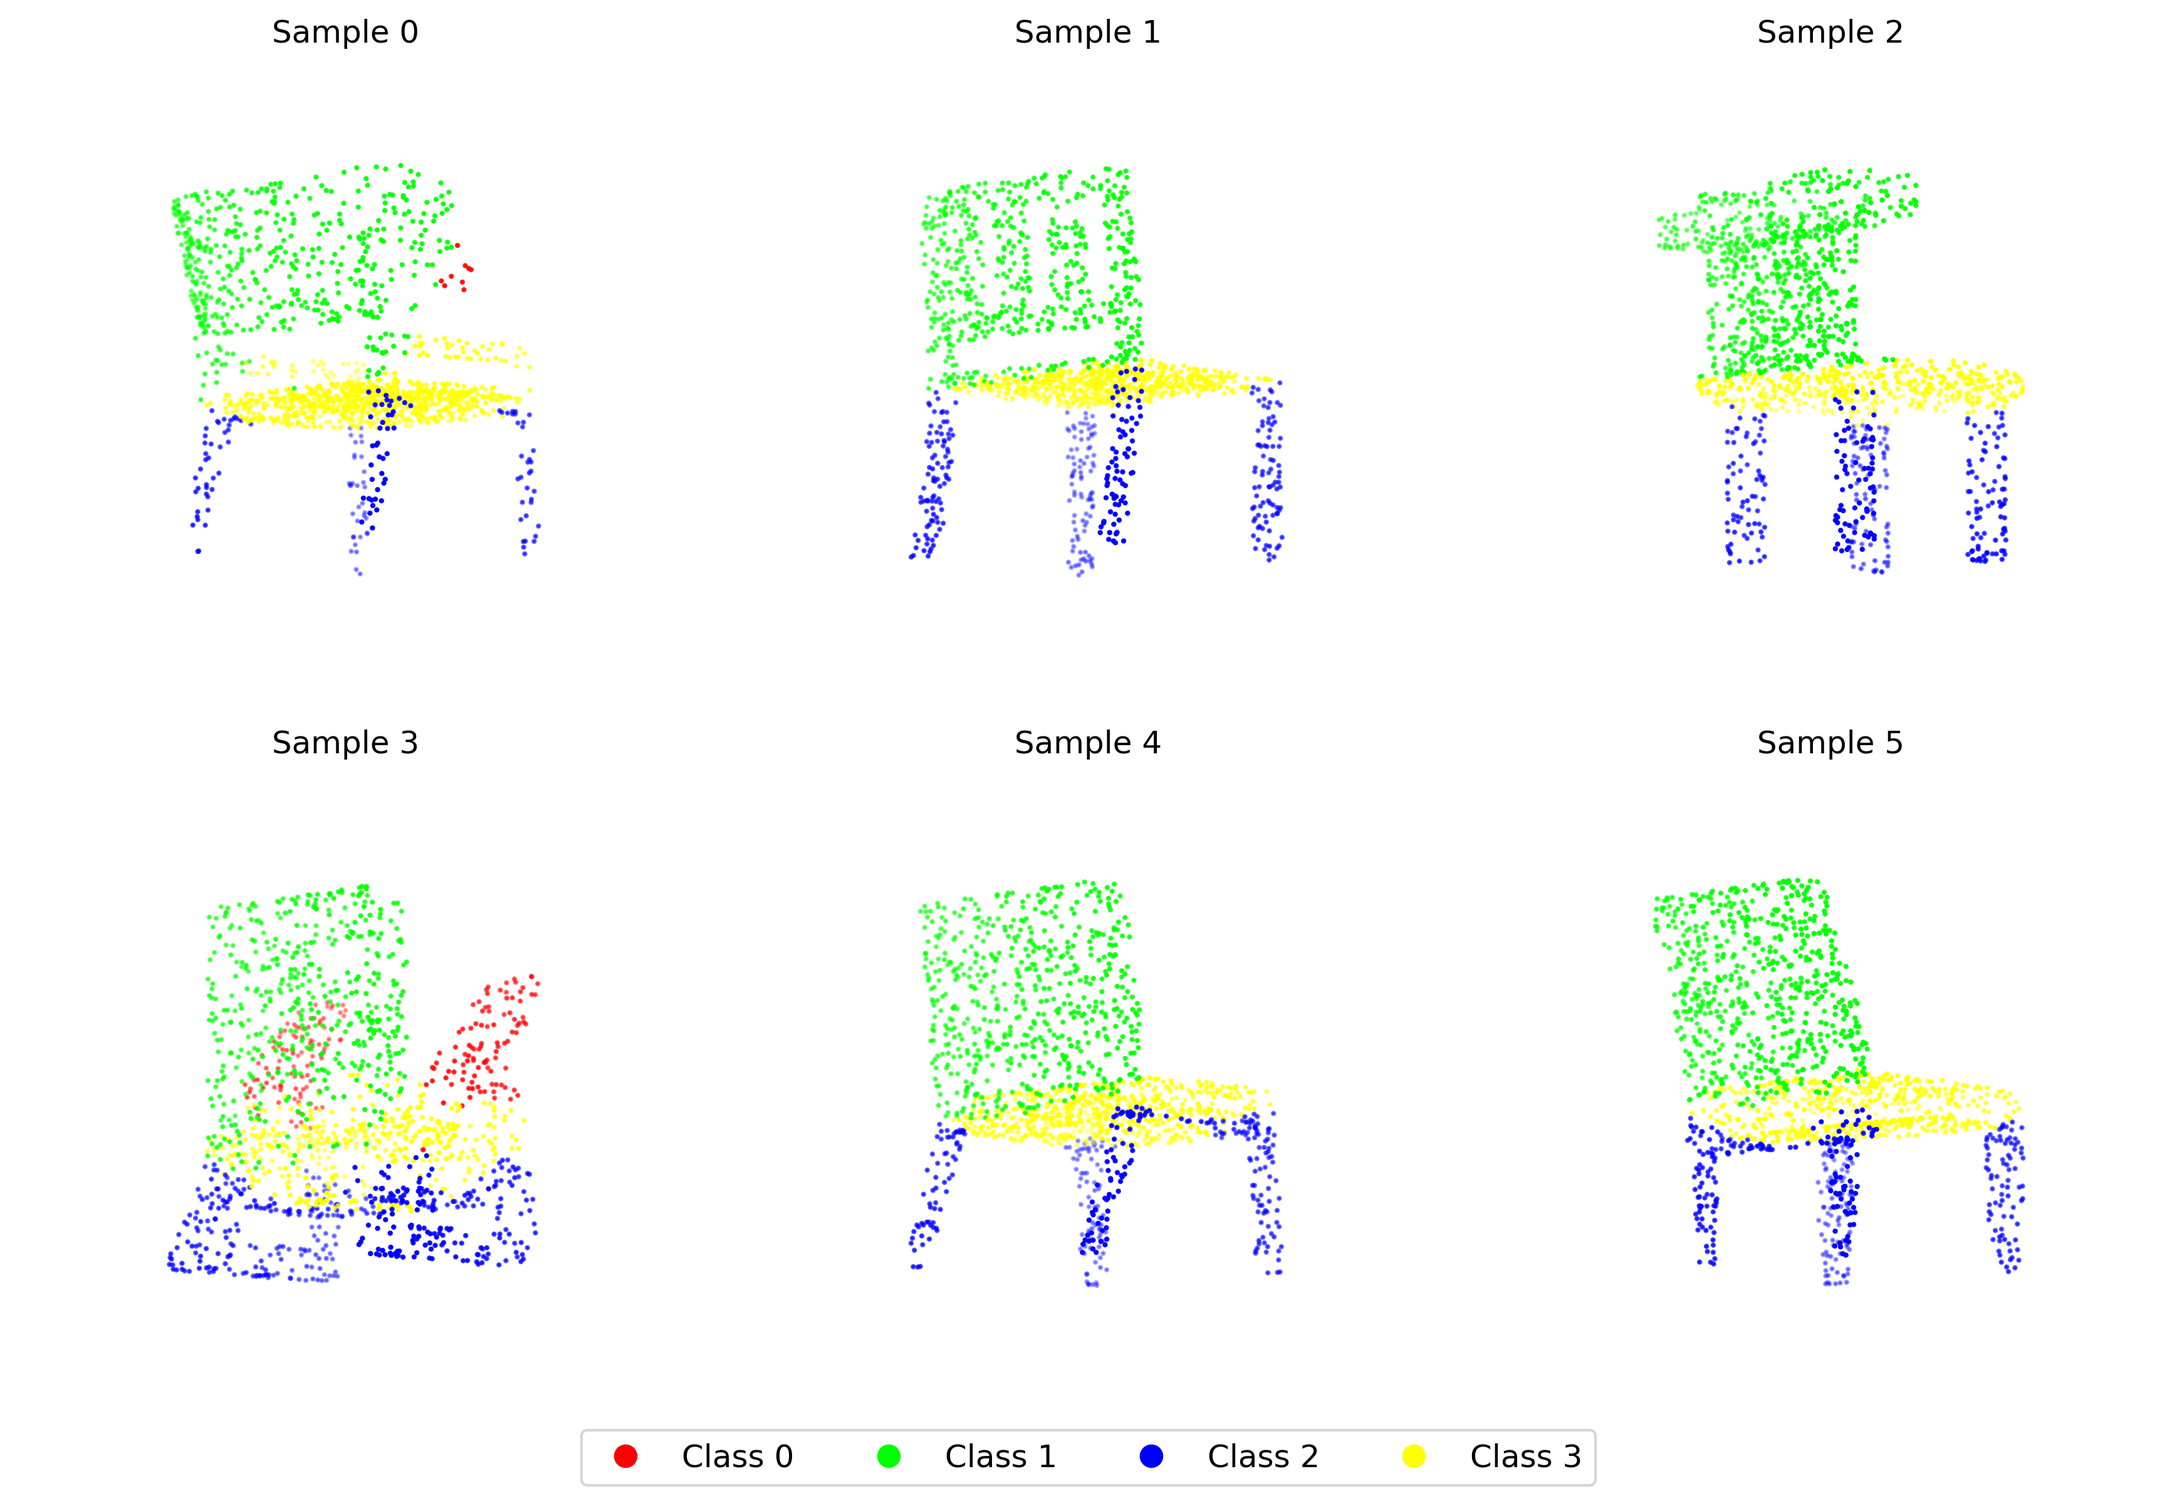
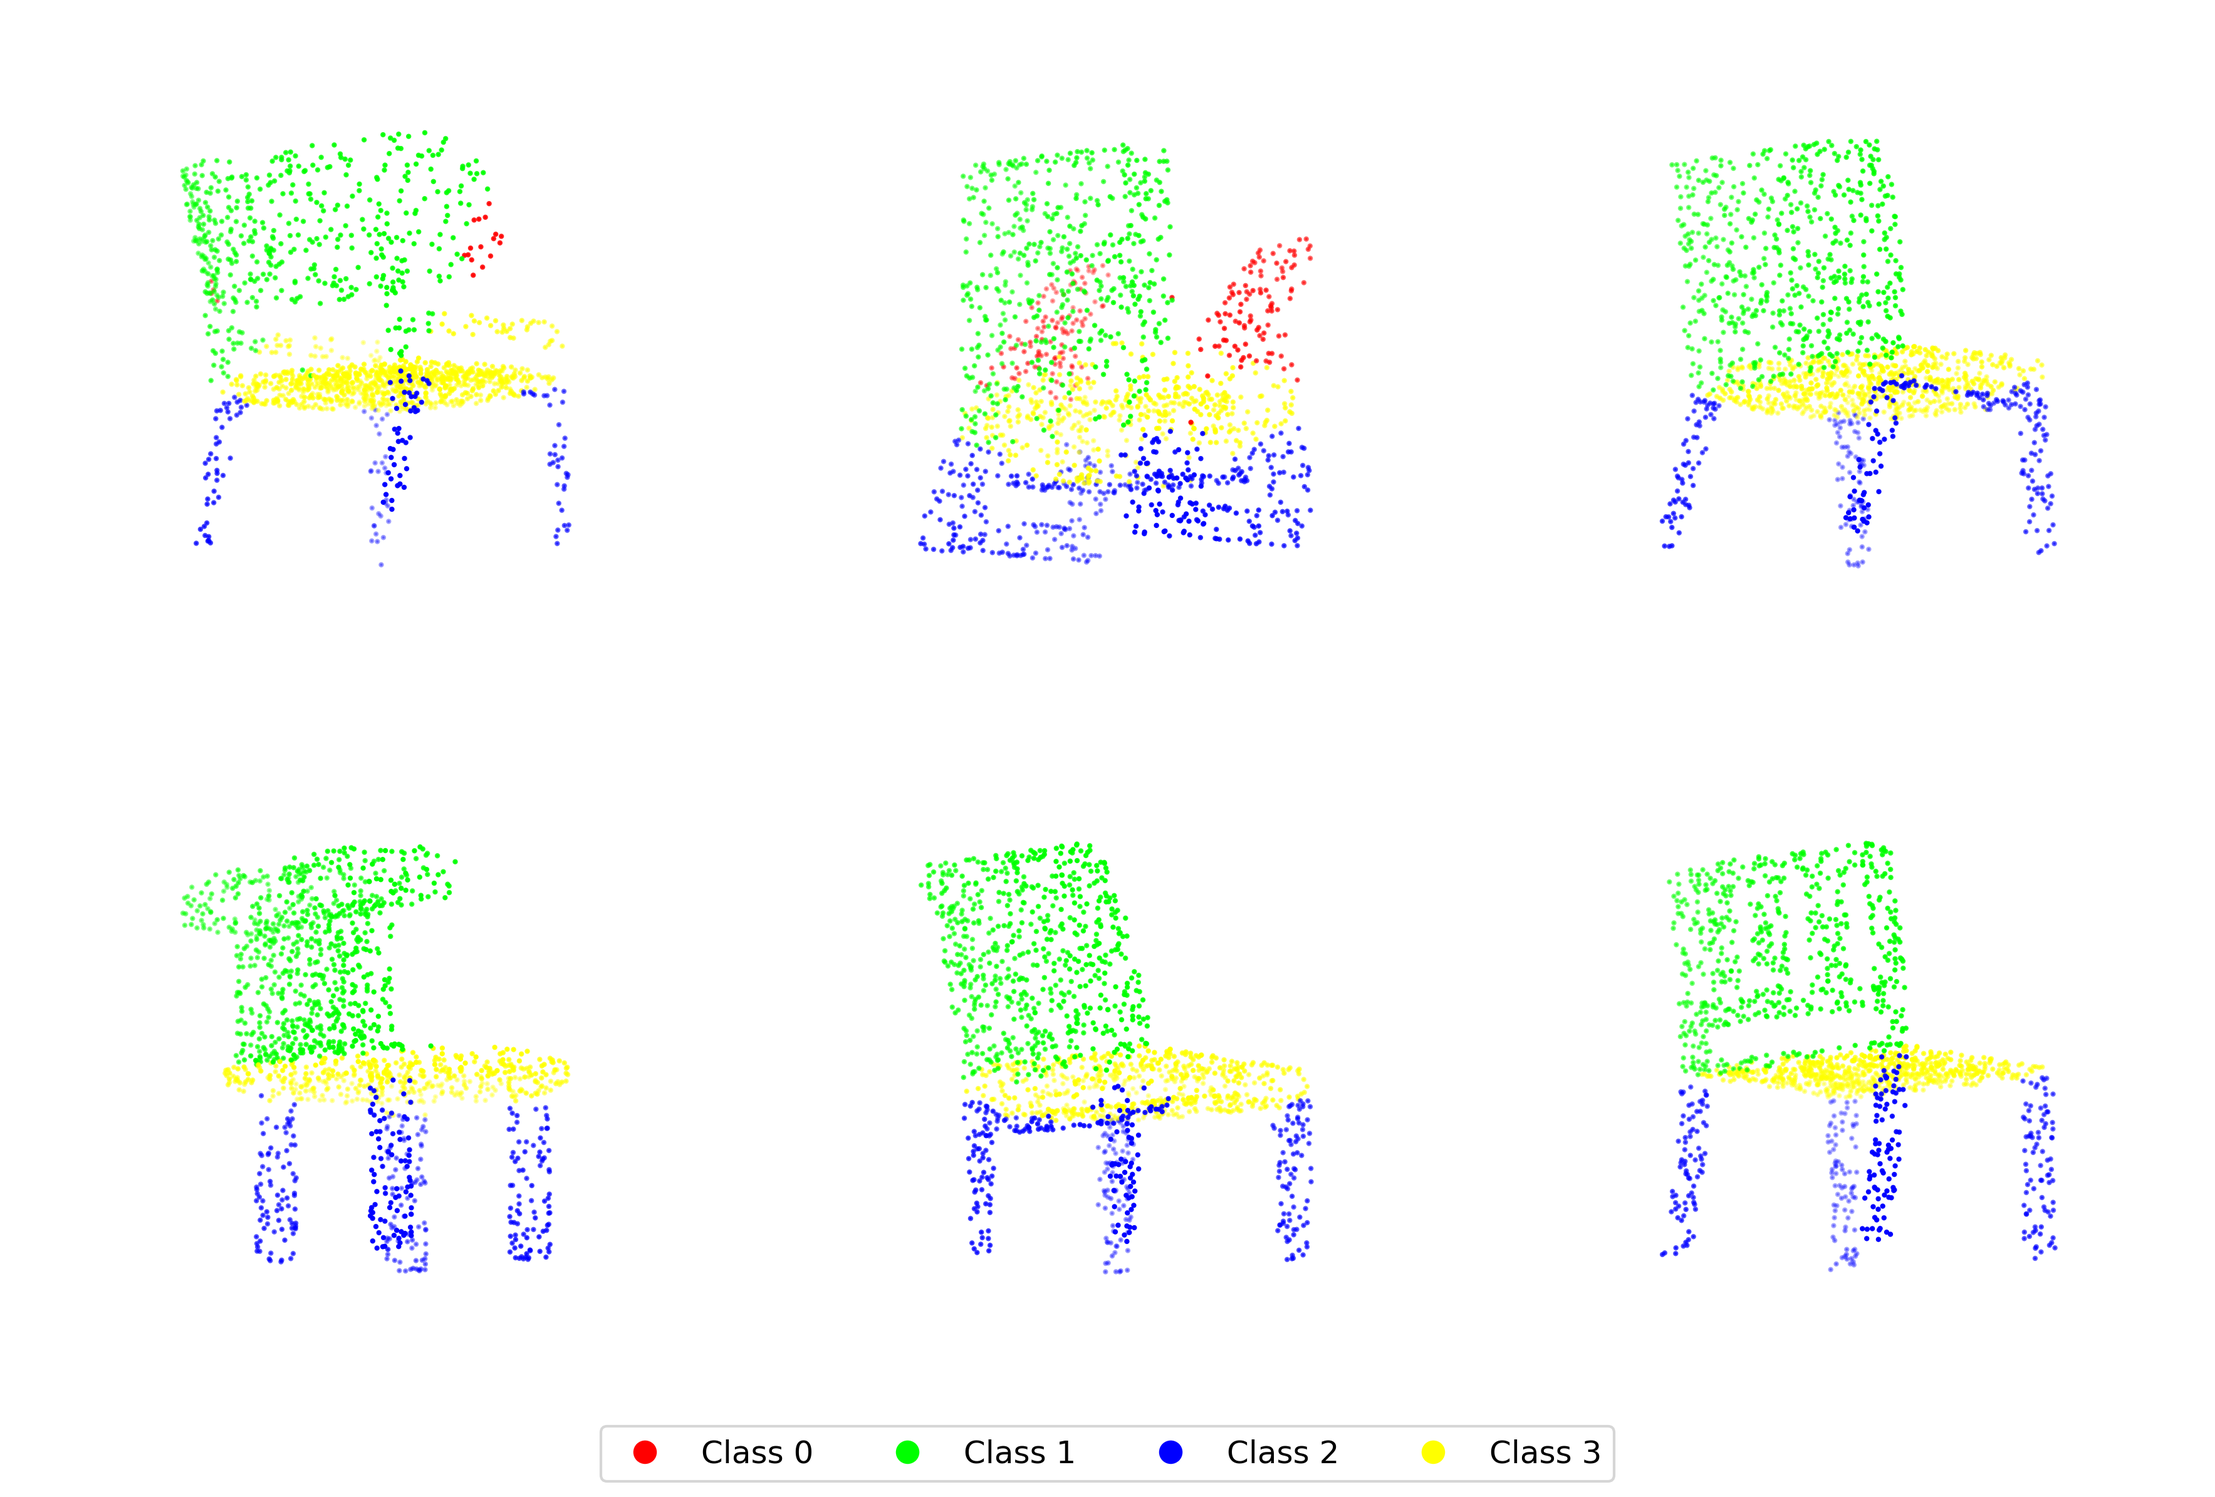
Add Modelnet Classification of pointnet

diff --git a/3D_segmentation/PointNet/test.py b/3D_segmentation/PointNet/test.py
@@ -1,15 +1,11 @@
-import os
 import torch
-import open3d as o3d
-import numpy as np
-import matplotlib.pyplot as plt
-from matplotlib.lines import Line2D
 import argparse
 
 from dataset import *
 from model import *
 from utils import *
 from vis_utils import *
+
 
 def test_model(args):
     device = args.device
@@ -25,45 +21,25 @@ def test_model(args):
     model.eval()
 
     _, _, test_dataloader, class_dict = get_dataset(args)
-    test_size = len(test_dataloader.dataset)
     
     if dataset_type == "chair":
-        n_cols = 3
-        n_rows = int(np.ceil(test_size / n_cols))
-        fig = plt.figure(figsize=(4 * n_cols, 4 * n_rows))
-        
-        for idx, pcloud in enumerate(test_dataloader):
+        for pcloud in test_dataloader:
             with torch.no_grad():
-                pcloud = pcloud.to(device).float()
-                output = torch.squeeze(model(pcloud))
-                predict = torch.softmax(output, dim=0).cpu()
-                predict_cla = torch.argmax(predict, dim=0).numpy()
+                output = torch.squeeze(model(pcloud.to(device).float()))
+                predict = torch.softmax(output, dim=1).cpu()
+                predict_class = torch.argmax(predict, dim=1).numpy()
                 
-                points_np = torch.squeeze(pcloud).T.cpu().numpy()
-                points_np = rotate_points_around_y(points_np, 50)
-                colors = np.array([color_map[label] for label in predict_cla])
-                
-                ax = fig.add_subplot(n_rows, n_cols, idx + 1, projection='3d')
-                ax.scatter(points_np[:, 0], points_np[:, 1], points_np[:, 2], c=colors, s=1)
-                ax.view_init(elev=80, azim=-90)
-                ax.set_title(f'Sample {idx}')
-                plt.axis('off')
-
-        legend_elements = []
-        for class_id, color in color_map.items():
-            legend_elements.append(Line2D([0], [0], marker='o', color='w',
-                            label=f'Class {class_id}',
-                            markerfacecolor=rgb_to_hex(color),
-                            markersize=10))
-
-        fig.legend(handles=legend_elements, loc='lower center', ncol=len(color_map), fontsize='large')
-        plt.tight_layout()
-        plt.subplots_adjust(bottom=0.05)
-        plt.savefig('img/{}_{}.png'.format(model_name, dataset_type), dpi=300, bbox_inches='tight')
-        plt.show()
+            visualize_pcloud(args, pcloud, color_map, predict_class)
         
     elif dataset_type == "modelnet40":
-        pass
+        for pcloud, _ in test_dataloader:
+            with torch.no_grad():
+                output = model(pcloud.to(device))
+                predict_class = torch.argmax(output, dim=1).cpu().numpy()
+                
+            visualize_pcloud(args, pcloud, color_map, predict_class, class_dict)
+            break
+        
     elif dataset_type == "s3dis":
         pass
     else:
@@ -73,15 +49,15 @@ def test_model(args):
 def parse_args():
     parse = argparse.ArgumentParser()
     # Dataset
-    parse.add_argument('--dataset', type=str, default="chair")
+    parse.add_argument('--dataset', type=str, default="modelnet40")
     parse.add_argument('--n_points', type=int, default=1500)
     
     # Model
-    parse.add_argument('--model', type=str, default="pointnet_seg")
-    parse.add_argument('--class_num', type=int, default=4)
+    parse.add_argument('--model', type=str, default="pointnet_cls")
+    parse.add_argument('--class_num', type=int, default=40)
     
     # testing
-    parse.add_argument('--batch_size', type=int, default=1)
+    parse.add_argument('--batch_size', type=int, default=4)
     parse.add_argument('--device', type=str, default="cuda")
     args = parse.parse_args()
     return args

diff --git a/3D_segmentation/PointNet/vis_utils.py b/3D_segmentation/PointNet/vis_utils.py
@@ -1,6 +1,7 @@
 import numpy as np
-import random
 import matplotlib.pyplot as plt
+import matplotlib.pyplot as plt
+from matplotlib.lines import Line2D
 
 def rotate_points_around_y(points, angle_deg):
     angle_rad = np.radians(angle_deg)
@@ -36,9 +37,47 @@ def get_color_map(args):
         }
         
     elif dataset_type == "modelnet40":
-        return generate_color_map(1)
+        return generate_color_map(class_num)
     
     elif dataset_type == "s3dis":
         return generate_color_map(class_num)
     else:
         raise ValueError(f'Unknown dataset {dataset_type}.')
+    
+def visualize_pcloud(args, pcloud, color_map, predict_class, 
+                    class_dict=None, y_rotate=50, elev=80, azim=-90):
+    n_rows = 2
+    n_cols = int(np.ceil(args.batch_size / n_rows))
+    fig = plt.figure(figsize=(4 * n_cols, 4 * n_rows))
+    task = args.model[-3:]
+        
+    for i in range(args.batch_size):
+        points_np = pcloud[i].T.numpy()
+        points_np = rotate_points_around_y(points_np, y_rotate)
+        
+        if task == "seg":
+            colors = np.array([color_map[label] for label in predict_class[i]])
+        elif task == "cls":
+            colors = np.array([color_map[predict_class[i]] for _ in range(args.n_points)])
+        
+        ax = fig.add_subplot(n_rows, n_cols, i + 1, projection='3d')
+        ax.scatter(points_np[:, 0], points_np[:, 1], points_np[:, 2], c=colors, s=1)
+        ax.view_init(elev=elev, azim=azim)
+        
+        if task == "cls" and class_dict is not None:
+            ax.set_title(f'{class_dict[predict_class[i]]}')
+        plt.axis('off')
+
+    if task == "seg":
+        legend_elements = []
+        for class_id, color in color_map.items():
+            legend_elements.append(Line2D([0], [0], marker='o', color='w',
+                            label=f'Class {class_id}',
+                            markerfacecolor=rgb_to_hex(color),
+                            markersize=10))
+        fig.legend(handles=legend_elements, loc='lower center', ncol=len(color_map), fontsize='large')
+        
+    plt.tight_layout()
+    plt.subplots_adjust(bottom=0.05)
+    plt.savefig('img/{}_{}.png'.format(args.model, args.dataset), dpi=300, bbox_inches='tight')
+    plt.show()

diff --git a/2D_classification/ViT/dataset.py b/2D_classification/ViT/dataset.py
@@ -113,12 +113,12 @@ def get_dataset(args):
         
         
     if dataset_type == "flower":
-        trainDataloader = DataLoader(train_dataset, batch_size=batch_size, shuffle=True, pin_memory=True, collate_fn=train_dataset.collate_fn)
-        valDataloader = DataLoader(val_dataset, batch_size=batch_size, shuffle=False, pin_memory=True, collate_fn=val_dataset.collate_fn)
-        testDataloader = DataLoader(test_dataset, batch_size=batch_size, shuffle=False, pin_memory=True, collate_fn=test_dataset.collate_fn)
+        train_dataloader = DataLoader(train_dataset, batch_size=batch_size, shuffle=True, pin_memory=True, collate_fn=train_dataset.collate_fn)
+        val_dataloader = DataLoader(val_dataset, batch_size=batch_size, shuffle=False, pin_memory=True, collate_fn=val_dataset.collate_fn)
+        test_dataloader = DataLoader(test_dataset, batch_size=batch_size, shuffle=False, pin_memory=True, collate_fn=test_dataset.collate_fn)
     else:
-        trainDataloader = DataLoader(train_dataset, batch_size=batch_size, shuffle=True, pin_memory=True)
-        valDataloader = DataLoader(val_dataset, batch_size=batch_size, shuffle=False, pin_memory=True)
-        testDataloader = DataLoader(test_dataset, batch_size=batch_size, shuffle=True, pin_memory=True)
+        train_dataloader = DataLoader(train_dataset, batch_size=batch_size, shuffle=True, pin_memory=True)
+        val_dataloader = DataLoader(val_dataset, batch_size=batch_size, shuffle=False, pin_memory=True)
+        test_dataloader = DataLoader(test_dataset, batch_size=batch_size, shuffle=True, pin_memory=True)
         
-    return trainDataloader, valDataloader, testDataloader, class_dict, val_num
+    return train_dataloader, val_dataloader, test_dataloader, class_dict

diff --git a/3D_segmentation/PointNet/dataset.py b/3D_segmentation/PointNet/dataset.py
@@ -109,6 +109,7 @@ class ModelNet40(Dataset):
         self.random_jitter = random_jitter
         
         self.class_dict = self.load_class_dict()
+        self.id2name = list(self.class_dict.keys())
         self.model_indices = self.load_model_indices()
         
     def __len__(self):
@@ -118,7 +119,7 @@ class ModelNet40(Dataset):
         return self.load_model(self.model_indices[index])
     
     def class_id2name(self, class_id):
-        return list(self.class_dict.keys())[class_id]
+        return self.id2name[class_id]
     
     def class_name2id(self, class_name):
         return self.class_dict[class_name]
@@ -285,7 +286,7 @@ def get_dataset(args):
     elif dataset_type == "modelnet40":
         path = os.path.join("../..", "Dataset", "ModelNet40_npz")
         train_dataset = ModelNet40(path, n_points, "train")
-        class_dict = train_dataset.class_dict
+        class_dict = train_dataset.id2name
         train_dataset, val_dataset = split_dataset_train_val(train_dataset)
         test_dataset = ModelNet40(path, n_points, "test")
         
@@ -305,5 +306,5 @@ def get_dataset(args):
         
     train_dataloader = DataLoader(train_dataset, batch_size=batch_size, shuffle=True)
     val_dataloader = DataLoader(val_dataset, batch_size=batch_size, shuffle=False)
-    test_dataloader = DataLoader(test_dataset, batch_size=batch_size, shuffle=False)
+    test_dataloader = DataLoader(test_dataset, batch_size=batch_size, shuffle=True)
     return train_dataloader, val_dataloader, test_dataloader, class_dict

diff --git a/2D_classification/ViT/train.py b/2D_classification/ViT/train.py
@@ -26,10 +26,9 @@ def train_model(args):
     weight_path = os.path.join("ckpts", "{}_{}.pth".format(model_name, dataset_type))
     print("Start training model {} on {} dataset!".format(model_name, dataset_type))
 
-    trainDataloader, valDataloader, _, _, val_num = get_dataset(args)
+    train_dataloader, val_dataloader, _, _ = get_dataset(args)
+    val_num = len(val_dataloader.dataset)
     model = get_model(args)
-    # model.load_state_dict(torch.load(weight_path, map_location=device))
-    # model.eval()
         
     opt = optim.SGD(model.parameters(), lr=lr, momentum=m, weight_decay=weight_decay)
     lf = lambda x: ((1 + math.cos(x * math.pi / epochs)) / 2) * (1 - lrf) + lrf
@@ -39,8 +38,8 @@ def train_model(args):
     best_acc = 0
     for epoch in range(epochs):
         print("Epoch {} start now!".format(epoch+1))
-        # train
-        for img, label in tqdm(trainDataloader):
+        # Train
+        for img, label in tqdm(train_dataloader):
             img, label = img.to(device), label.to(device)
             output = model(img)
             trainLoss = criterion(output, label)
@@ -53,7 +52,7 @@ def train_model(args):
         # Validation
         acc = 0.0
         with torch.no_grad():
-            for img, label in tqdm(valDataloader):
+            for img, label in tqdm(val_dataloader):
                 output = model(img.to(device))
                 predClass = torch.argmax(output, dim=1)
                 acc += torch.eq(predClass, label.to(device)).sum().item()

diff --git a/2D_classification/ViT/eval.py b/2D_classification/ViT/eval.py
@@ -16,14 +16,15 @@ def eval_model(args):
     
     print("Start evaluation model {} on {} dataset!".format(model_name, dataset_type))
     
-    _, valDataloader, _, _, val_num = get_dataset(args)
+    _, val_dataloader, _, _ = get_dataset(args)
+    val_num = len(val_dataloader.dataset)
     model = get_model(args)
     model.load_state_dict(torch.load(weight_path, map_location=device))
     model.eval()
     
     acc = 0.0
     with torch.no_grad():
-        for img, label in tqdm(valDataloader):
+        for img, label in tqdm(val_dataloader):
             output = model(img.to(device))
             pred_class = torch.argmax(output, dim=1)
             acc += torch.eq(pred_class, label.to(device)).sum().item()

diff --git a/2D_classification/ViT/test.py b/2D_classification/ViT/test.py
@@ -26,13 +26,13 @@ def test_model(args):
         mean = torch.tensor([0.5, 0.5, 0.5]).view(1, 3, 1, 1)
         std = torch.tensor([0.5, 0.5, 0.5]).view(1, 3, 1, 1)
     
-    _, _, testDataloader, class_dict, _ = get_dataset(args)
+    _, _, test_dataloader, class_dict = get_dataset(args)
     model = get_model(args)
     model.load_state_dict(torch.load(weight_path, map_location=device))
     model.eval()
     
     plt.figure(figsize=(4, 4))
-    for imgs, _ in testDataloader:
+    for imgs, _ in test_dataloader:
         imgs_denorm = imgs * std + mean
         with torch.no_grad():
             output = torch.squeeze(model(imgs.to(device))).cpu()

diff --git a/3D_segmentation/PointNet/eval.py b/3D_segmentation/PointNet/eval.py
@@ -24,8 +24,8 @@ def eval_model(args):
     
     acc = 0.0
     with torch.no_grad():
-        for img, label in tqdm(valDataloader):
-            output = model(img.to(device))
+        for pcloud, label in tqdm(valDataloader):
+            output = model(pcloud.to(device))
             pred_class = torch.argmax(output, dim=1)
             acc += torch.eq(pred_class, label.to(device)).sum().item()
     acc = acc / val_num

diff --git a/3D_segmentation/PointNet/README.md b/3D_segmentation/PointNet/README.md
@@ -15,11 +15,11 @@ python eval.py --dataset modelnet40 --model pointnet_cls --class_num 40
 
 ### Testing ###
 ```bash
-python test.py --dataset modelnet40 --model pointnet_cls --class_num 40
+python test.py --dataset modelnet40 --model pointnet_cls --class_num 40 --batch_size 4
 ```
 
-### Result of Chair Dataset ###
-![image](https://github.com/tungyen/Deep_learning_CV/blob/master/3D_segmentation/PointNet/img/pointnet_seg_chair.png)
+### Result of Modelnet40 Dataset ###
+![image](https://github.com/tungyen/Deep_learning_CV/blob/master/3D_segmentation/PointNet/img/pointnet_cls_modelnet40.png)
 
 ## Part Segmentation ##
 
@@ -33,7 +33,7 @@ To be continue
 
 ### Testing ###
 ```bash
-python test.py --dataset chair --model pointnet_seg --class_num 4
+python test.py --dataset chair --model pointnet_seg --class_num 4 --batch_size 6
 ```
 
 ### Result of Chair Dataset ###

diff --git a/Dataset/README.md b/Dataset/README.md
@@ -49,9 +49,10 @@ To be continue.
 
 
 ### S3DIS ###
-To download S3DIS dataset, please follow [this link](https://github.com/open-mmlab/mmdetection3d/blob/1.0/data/s3dis/README.md). And then run the following command:
-```bash
+To download S3DIS dataset, please follow [this link](https://github.com/open-mmlab/mmdetection3d/blob/1.0/data/s3dis/README.md). After unzip the folder, run the following command:
 
+```bash
+python prepare_s3dis.py
 ```
 
 ## 6D Pose ##
